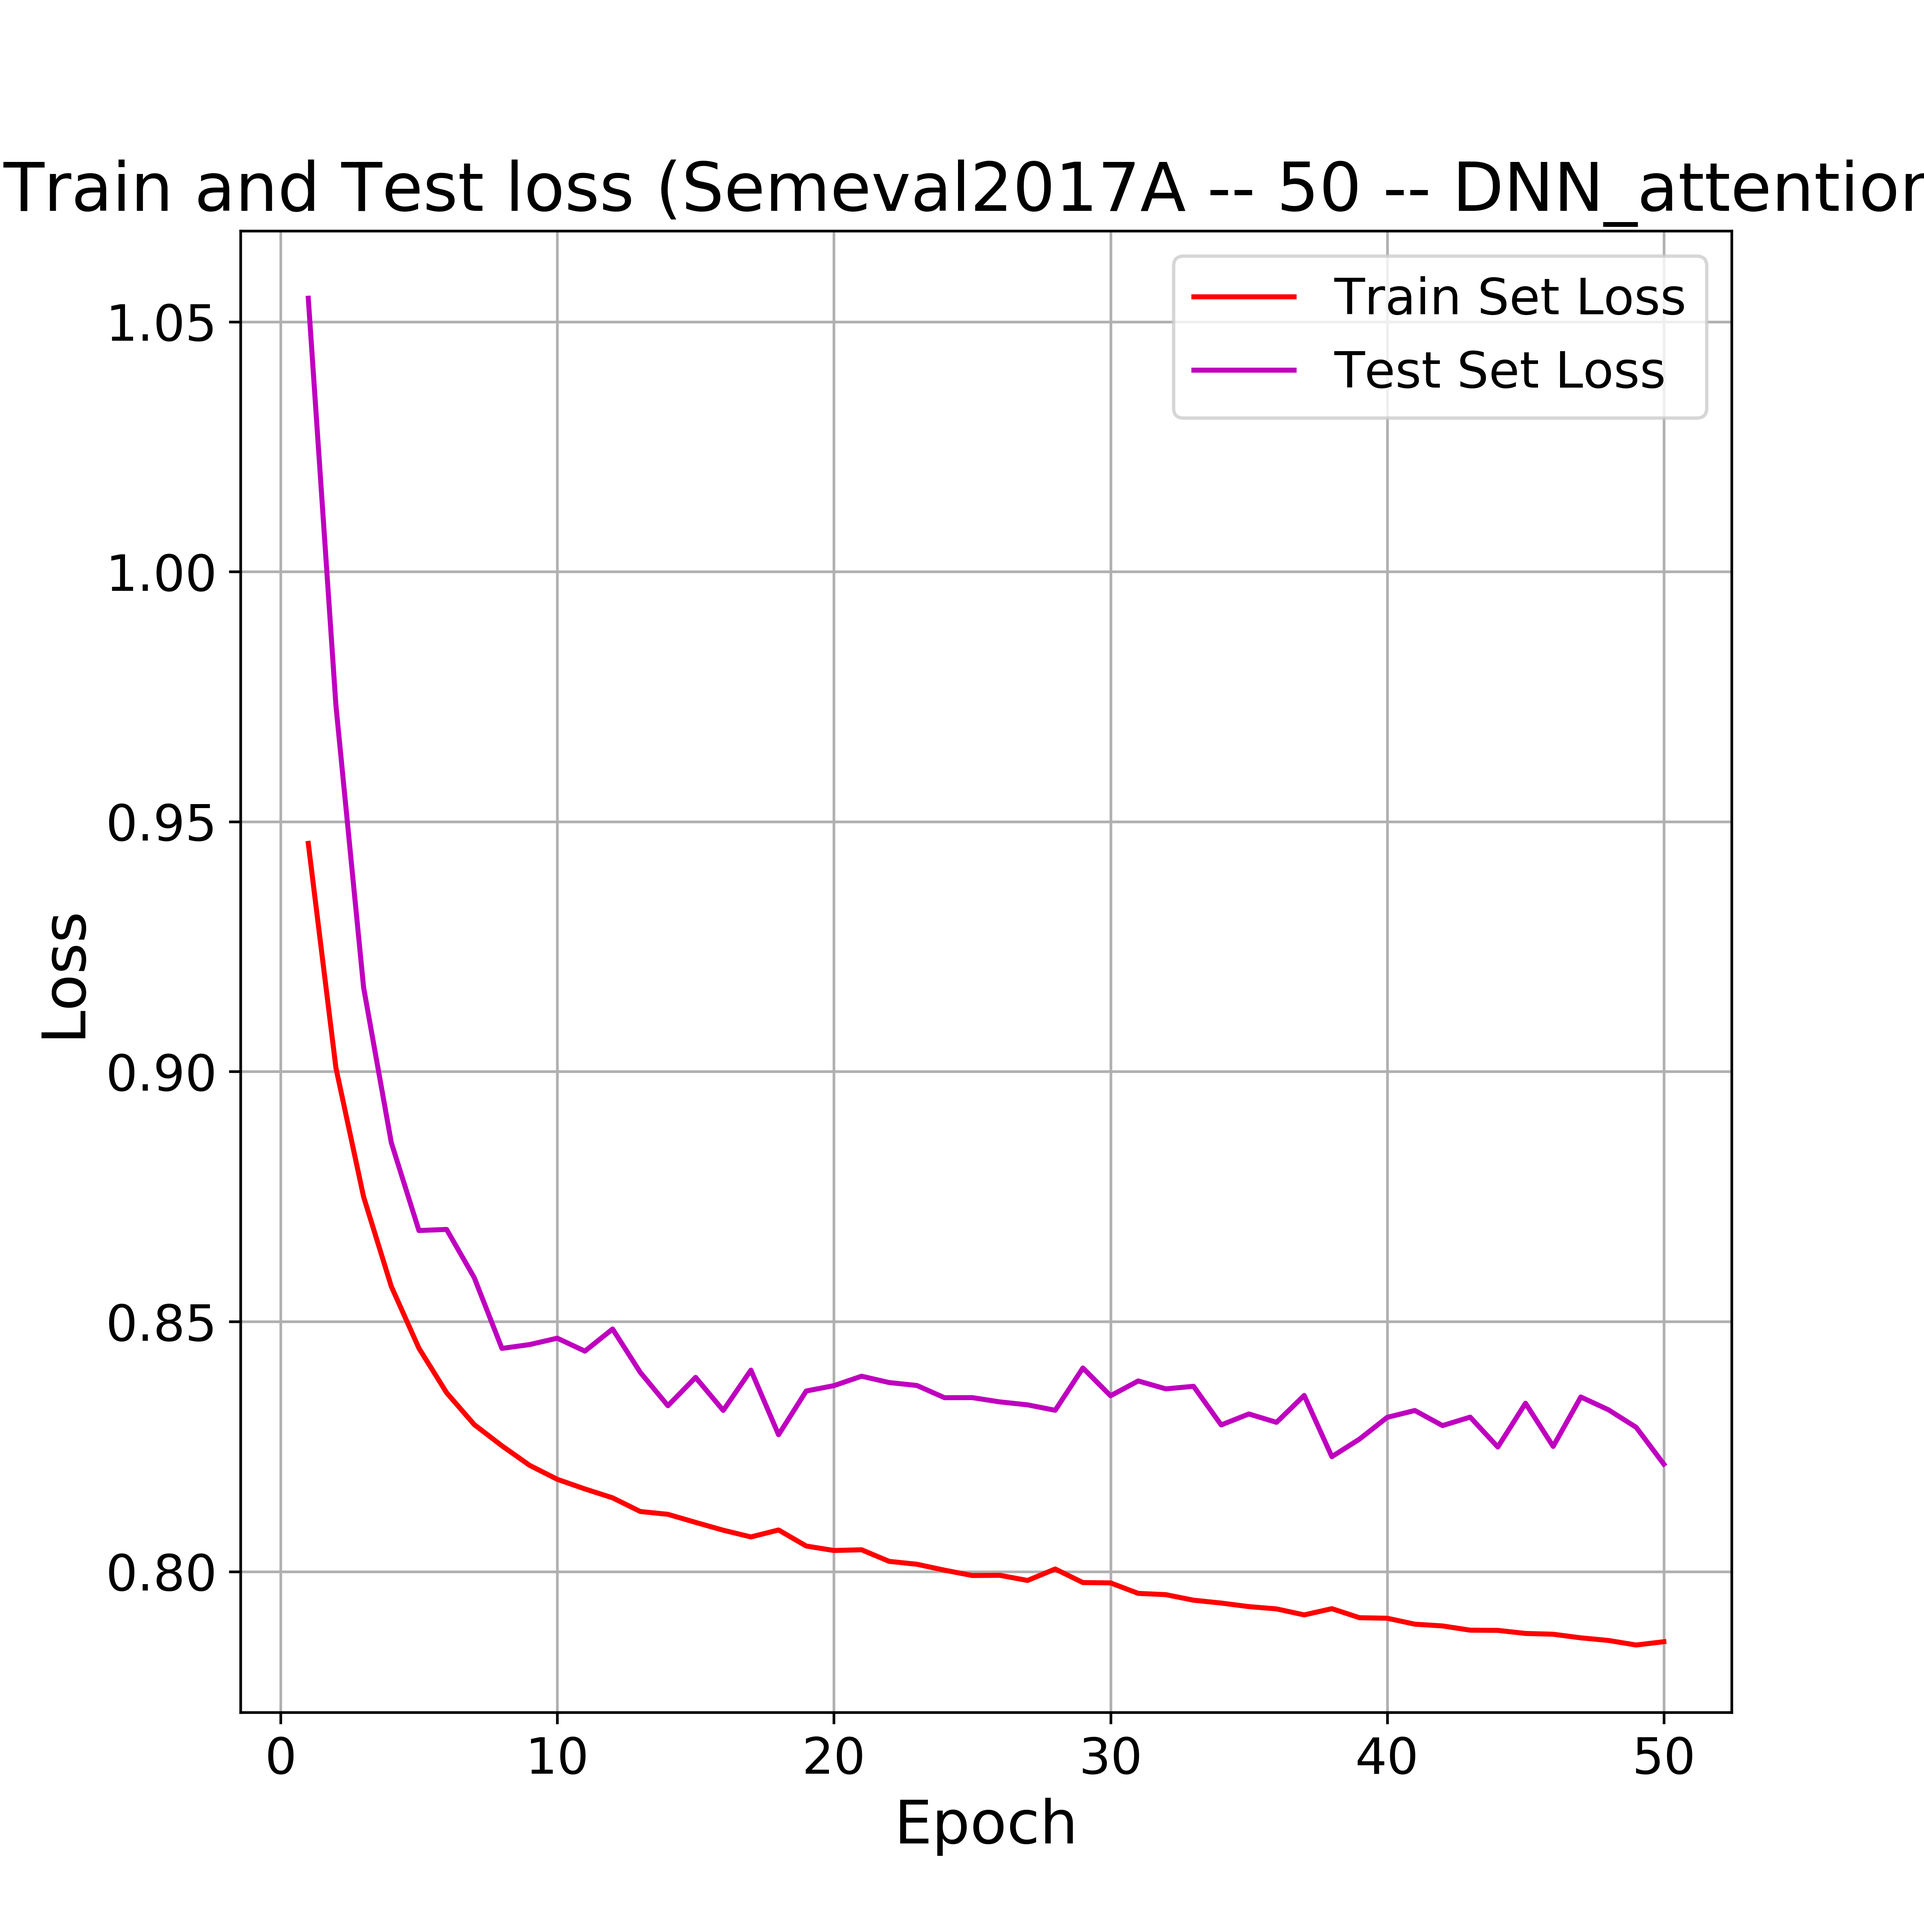
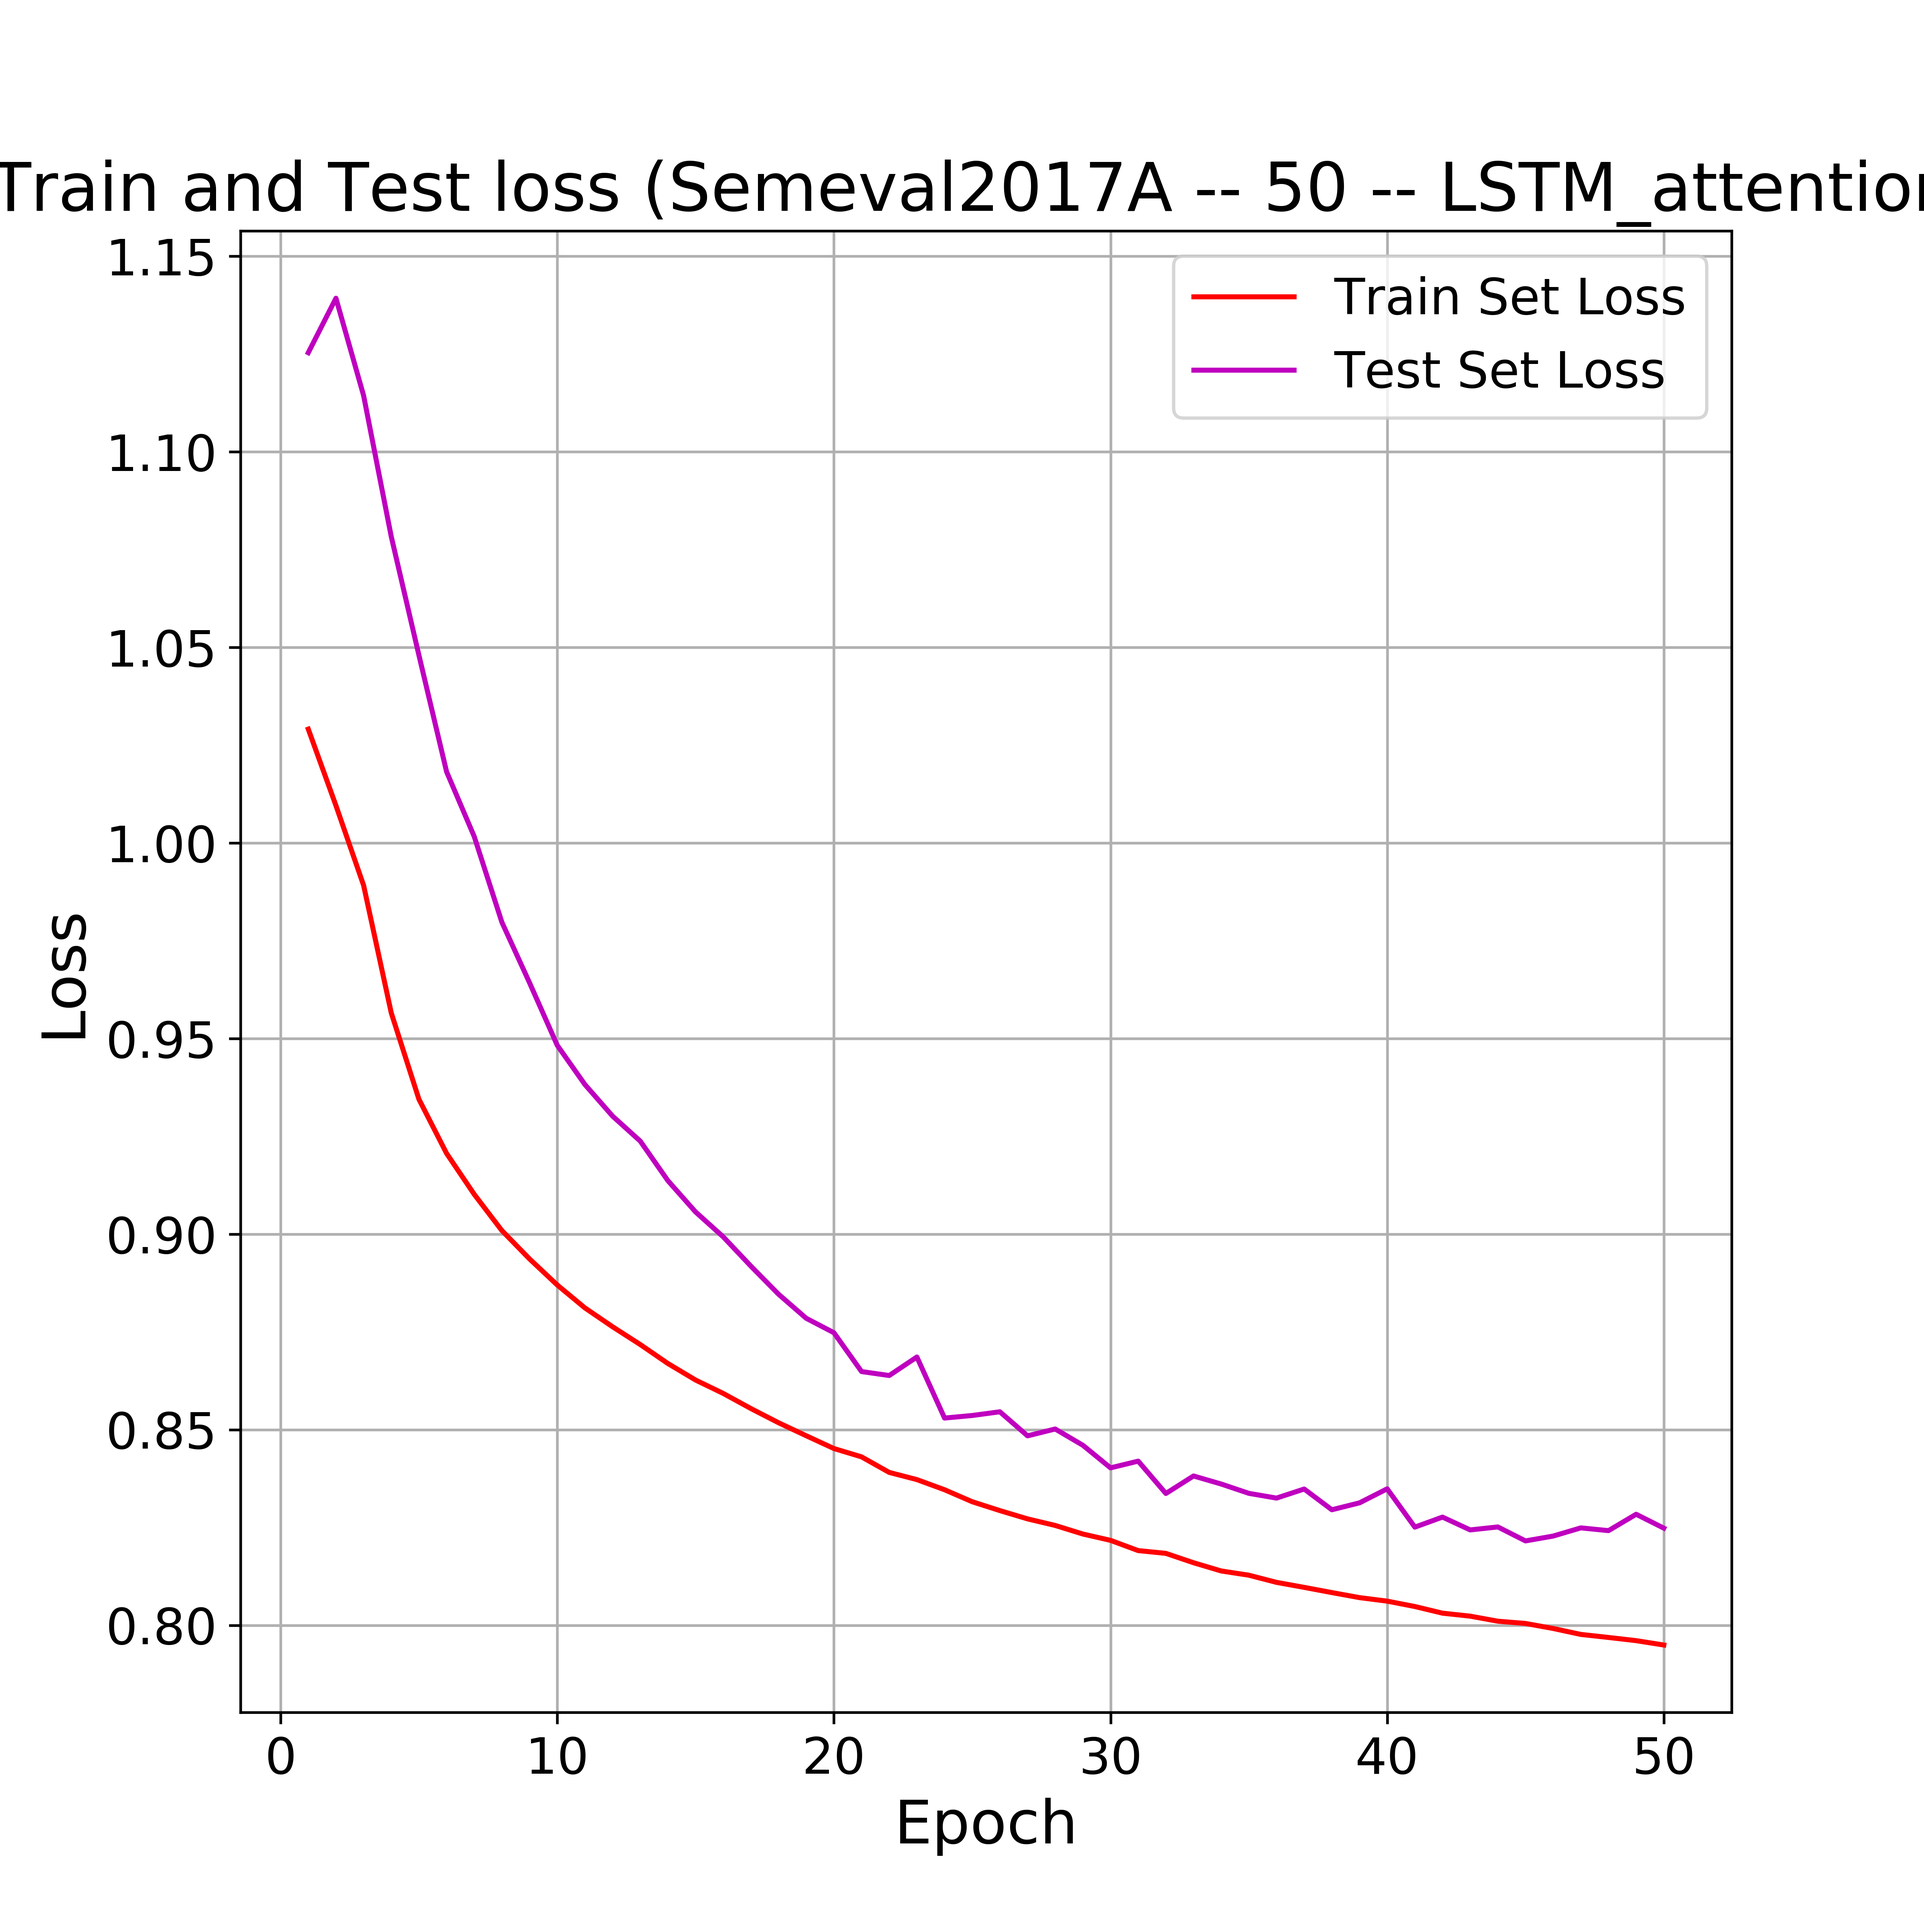
LSTM with padded sequence

diff --git a/lab3/slp-lab3-prep/models.py b/lab3/slp-lab3-prep/models.py
@@ -133,14 +133,15 @@ class BaseLSTM(nn.Module):
         self.embeddings = nn.Embedding(num_embeddings,dim)
         self.output_size = output_size
         
-        self.lstm = nn.LSTM(dim,hidden_size = hidden)
+        self.lstm = nn.LSTM(dim,hidden_size = hidden,bidirectional = bidirectional)
         self.method = method 
         self.bidirectional = bidirectional
       
 
         if bidirectional == True:
-            self.lstm_rev = nn.LSTM(dim,hidden_size = hidden)
+            
             hidden = hidden*2
+        
         self.hidden = hidden 
             
         if method == 'pooling':
@@ -162,64 +163,25 @@ class BaseLSTM(nn.Module):
     
     def forward(self,x,lengths):
         embeddings = self.embeddings(x)
-        # :: BS x SEQ_LEN x EMB_DIM 
-        
-        BS,SEQ_LEN  = x.shape
-    
-        # LSTM requires input SEQ_LEN x BS x EMB_DIM
-        ht,_ = self.lstm(torch.transpose(embeddings, 0, 1))
-        
-        if self.bidirectional:
-        
-            x_rev = torch.Tensor(np.flip(x.numpy(),1).copy())
-            for i in range(BS):
-                
-                x_rev[i] = torch.cat((x_rev[i,SEQ_LEN - lengths[i]:],x_rev[i,:SEQ_LEN - lengths[i]]),dim = 0)
-            
-            x_rev = x_rev.long()
-            embeddings_rev = self.embeddings(x_rev)
-            ht_rev,_ = self.lstm_rev(torch.transpose(embeddings_rev,0 , 1 ))
-        
-        # ht :: SEQ_LEN x BS x HS
-        
-        ## Need to index by lengths, drop unwanted hidden states...
-        
-        # ht_last :: BS x HS
-        
-        ht_last = torch.zeros((BS,self.hidden))
-        
-        for i in range(BS):
-            if (lengths[i] > ht.shape[0]):
-                lengths[i] = ht.shape[0]
-                continue
+        # BS x SEQ_LEN -->  BS x SEQ_LEN x EMB_DIM 
+        X = torch.nn.utils.rnn.pack_padded_sequence(embeddings, lengths, batch_first=True,enforce_sorted = False)
 
-            ht[lengths[i]:,i,:] = 0 # zero unwanted states
-            
-
-            
-            if self.bidirectional:
-                ht_rev[lengths[i]:,i,:] = 0
-                
-                ht_last[i] = torch.cat((ht[lengths[i]-1,i,:],ht_rev[lengths[i]-1,i,:]))
-            else :
-                ht_last[i] = ht[lengths[i]-1,i,:] # save last hidden       
+        ht,(hn,_) = self.lstm(X)
+        ht, _ = torch.nn.utils.rnn.pad_packed_sequence(ht, batch_first=True)
+        # ht :: BS x MAX_SEQ_LEN x HS
+        # MAX_SEQ_LEN = max(lengths)
         
-        if self.bidirectional :
-    
-            ht = torch.cat((ht,ht_rev),dim = 2)
-
-        ht =  torch.transpose(ht,0,1) # transpose back to previous shape
         if self.method == 'pooling':
             mean = torch.sum(ht,axis = 1) # BS x HS 
             mean = mean / lengths.view((-1,1)) 
             max_vals,_ = torch.max(ht,axis = 1) # BS x HS
             rep = torch.cat( (mean,max_vals) ,dim = 1) # BS x 2HS
-            rep = torch.cat( (ht_last, rep),dim = 1) # BS x 3HS
+            rep = torch.cat( (hn, rep),dim = 1) # BS x 3HS
             
         elif self.method == 'attention':
             rep = self.attention(ht)
         else :
-            rep = ht_last
+            rep = hn
         
         out = self.linear(rep)
         if self.output_size == 2:

diff --git a/lab3/slp-lab3-prep/main.py b/lab3/slp-lab3-prep/main.py
@@ -73,10 +73,17 @@ print(f'Original: {le.inverse_transform(y_train[:10])}\n')
 print(f'After LabelEncoder: {y_train[:10]}\n')
 
 # Define our PyTorc-based Dataset
-
-train_set = SentenceDataset(X_train, y_train, word2idx)
-test_set = SentenceDataset(X_test, y_test, word2idx)
-
+import sys
+try :
+    DEBUG = True if sys.argv[1] == 'debug' else False 
+except: 
+    DEBUG = False
+if DEBUG:
+    train_set = SentenceDataset(X_train[:128], y_train[:128], word2idx)
+    test_set = SentenceDataset(X_test[:128], y_test[:128], word2idx)
+else:
+    train_set = SentenceDataset(X_train, y_train, word2idx)
+    test_set = SentenceDataset(X_test, y_test, word2idx)    
 print('\n\033[1mQuestion 2:\033[0m\n')
 for i in range(10):
     print('Tokenized sample:')

diff --git a/lab3/slp-lab3-prep/dataloading.py b/lab3/slp-lab3-prep/dataloading.py
@@ -104,6 +104,7 @@ class SentenceDataset(Dataset):
         if length >= self.max_sent_length:
             # reduce size if necessary 
             example = example[:self.max_sent_length]
+            length = self.max_sent_length
         else :
             # else pad sequence
             example = example + [0]*(self.max_sent_length-length)
